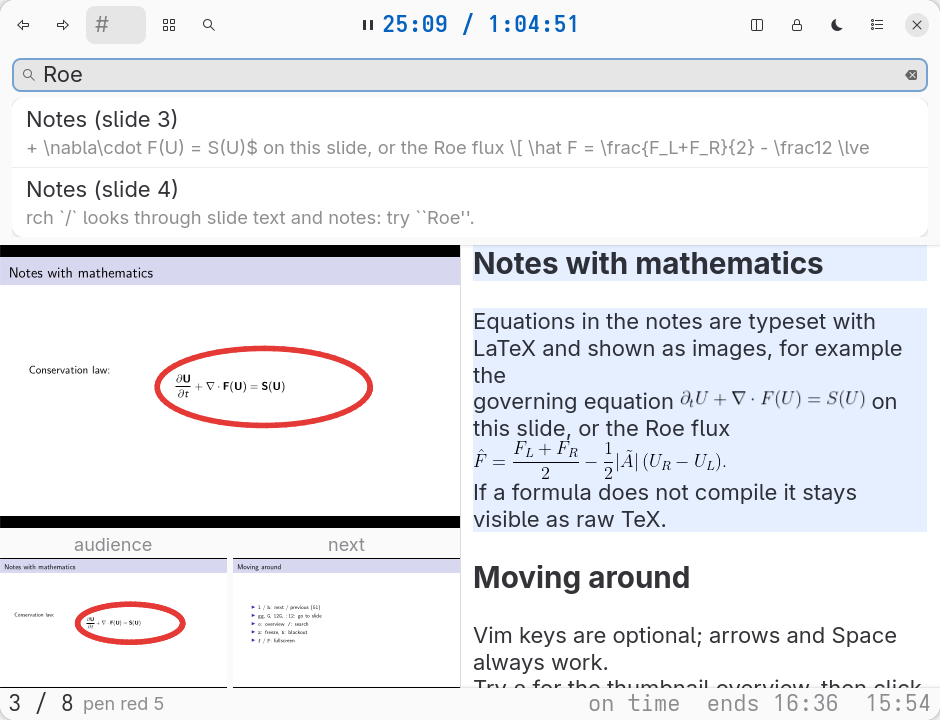
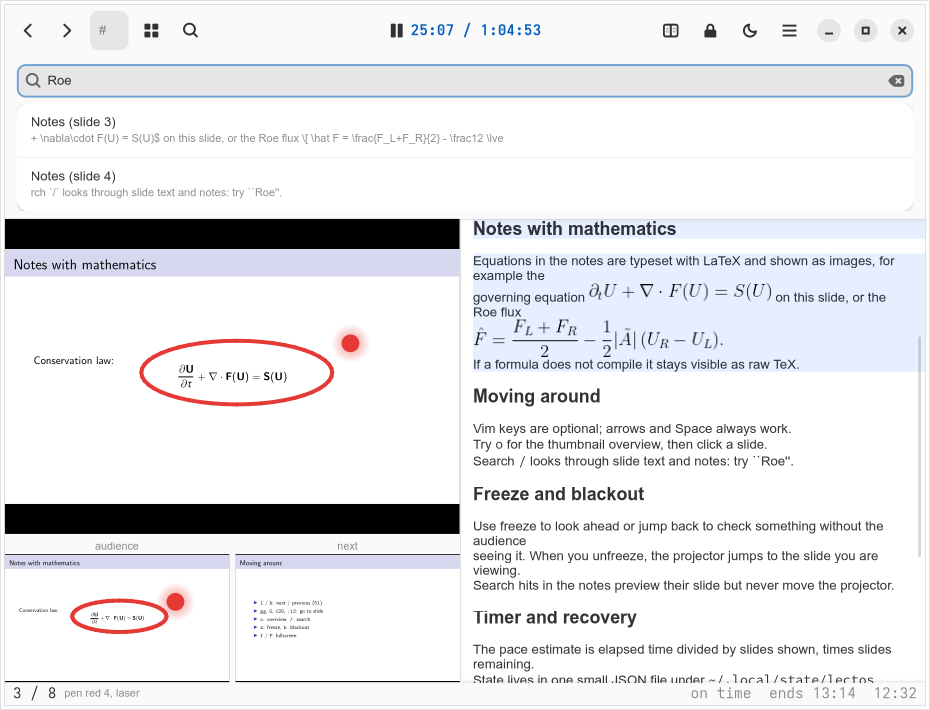
Add retro branding and refresh screenshots
Introduce a CRT and projector logo, a distinct projector icon, and a television test card for the sample standby screen. Refresh the documentation with captures from the current GTK windows.

diff --git a/tests/test_config.py b/tests/test_config.py
@@ -58,7 +58,8 @@ def test_invalid_options_name_the_problem(tmp_path: Path, text: str, message: st
 def test_sample_options_are_valid() -> None:
     opts = config.load(ROOT / "options.toml")
     assert opts.blackout.image == ROOT / "standby.svg"
-    assert opts.blackout.text.startswith("Please stand by")
+    assert opts.blackout.text == ""
+    assert opts.blackout.custom is True
 
 
 def test_ui_section_selects_console_and_projector(tmp_path: Path) -> None:

diff --git a/docs/usage.md b/docs/usage.md
@@ -8,9 +8,13 @@ The full reference. For installation and the first run see the [README](../READM
 
 ![The wide layout on a big screen: slide with ink and laser, audience and next previews, notes with typeset math, and the filmstrip](screenshots/wide.png)
 
-| Compact layout with the search panel open | What the audience sees |
+| Compact layout with search (palette hidden) | What the audience sees |
 |---|---|
 | ![The compact layout for a notebook, with search results above the slides](screenshots/compact.png) | ![The projector window: the slide with the red ink circle](screenshots/projector.png) |
+
+| Start window | Example standby screen |
+|---|---|
+| ![The start window with the CRT and projector logo](screenshots/start.png) | ![The projector showing the please stand by test card](screenshots/standby.png) |
 
 | console \ projector | `gtk` (our window) | `zathura` | `none` |
 |---|---|---|---|
@@ -21,6 +25,8 @@ The full reference. For installation and the first run see the [README](../READM
 - **zathura projector**: a plain Zathura window driven over D-Bus (`gdbus`); follows the deck, freeze works, fullscreen via `fullscreen`. It cannot show blackout, chalkboard, ink or laser, so those commands answer "not supported by this projector".
 - **gtk console**: all features below, including drawing and the laser on the preview. Needs GTK as above.
 - **tui console** (`lectos-tui`, or `--console tui`): standard-library Python in the terminal, no GTK unless combined with the gtk projector. Slide previews use `pdftoppm` and `chafa` (Unicode block characters; skipped in terminals narrower than 90 columns or when the tools are missing). Notes are shown as styled text; math is approximated with Unicode (`∂ₜ U + ∇·F(U) = S(U)`), not typeset. Overview and search results are lists. It has no laser, no `show-slide`, no mouse; with the gtk projector you can still draw on the projector window with a pen (or a mouse after `draw on`). Keys are always vim-style plus arrows; `:` opens the command line with Tab completion; `:q` quits (Ctrl-C also saves and quits). `?` or `:help` opens a list of every command usable with this projector (usage, description, key; commands that need the GTK console or a projector with more features are marked); Enter on an entry starts typing it, and `:help NAME` describes one command. With the gtk projector, GTK's own messages are written to `$XDG_STATE_HOME/lectos/<id>.log` so they cannot garble the screen.
+
+The GTK presenter and projector windows request different icons. Some desktop environments show a shared application icon instead of individual window icons.
 
 The GTK console opens a console window; with the gtk projector it also opens the projector window. It follows the GNOME design guidelines through libadwaita (1.4 or newer): a toolbar view with header bar, banners, toasts and boxed lists, and it follows the system light/dark setting. State the audience cares about is always visible: **banners** at the top say when the projector is frozen (with the slide it is stuck on), blacked out, or showing the chalkboard, each with a button to undo it; the matching header toggles light up (blackout in red); the footer shows the current pen, eraser, laser and board. Messages appear as toasts. The footer's right side shows how you stand against the plan (`on time`, `ahead 2:10`, `behind 3:40`: every slide gets an equal share of the lecture length and a slide's own share counts as on time), the estimated finish time at your current pace (`ends 15:48`), and the clock. `help` (key `?`) opens a page listing every command with usage and key; pick a row to start typing it.
 
@@ -76,7 +82,7 @@ Options live in `$XDG_CONFIG_HOME/lectos/options.toml` (or `--config FILE`); a m
 ```toml
 [blackout]
 image = "standby.svg"      # relative to this file, absolute, or ~/...; any format GTK can load
-text = "Please stand by…"
+text = ""                  # optional caption; the sample image already has a message
 background = "#101820"     # #rrggbb
 text_color = "#f2f2f2"
 
@@ -89,7 +95,7 @@ console = "gtk"            # or "tui"
 projector = "gtk"          # or "zathura"
 ```
 
-See `examples/options.toml` and `examples/standby.svg`. Status: tested with unit tests and by driving both windows on GNOME/Wayland with a 6-page and a 411-page PDF. Not tested: real pen pressure and the eraser end, fullscreen on a second monitor, a real lecture. With one monitor the projector stays windowed.
+See `examples/options.toml` and the retro test card in `examples/standby.svg`. Without blackout options the screen remains plain black. Status: tested with unit tests and by driving both windows on GNOME/Wayland with a 6-page and a 411-page PDF. Not tested: real pen pressure and the eraser end, fullscreen on a second monitor, a real lecture. With one monitor the projector stays windowed.
 
 ## Opening slides
 

diff --git a/docs/DONE.md b/docs/DONE.md
@@ -2,6 +2,12 @@
 
 Completed work only. Record meaningful outcomes and validation evidence, newest first.
 
+## 2026-11-10: retro logo, window icons and standby
+
+- Created a CRT-to-projector logo and a separate projector icon. Replaced the sample standby image with a television test card and documented that per-window icons depend on the desktop environment.
+- Validation: rendered and inspected the SVGs; Ruff, formatting and Ty passed, as did all 538 tests with 100% coverage.
+- Captured and inspected the current GTK presenter and projector windows on an isolated display with the sample deck; added the start window and sample standby screen.
+
 ## 2026-11-10: filmstrip pointer-crossing crash
 
 - Avoid rebuilding filmstrip thumbnails for laser and other updates that leave their contents and geometry unchanged. Defer deck-triggered rebuilds until after input callbacks, including a thumbnail's own press handler.

diff --git a/README.md b/README.md
@@ -1,5 +1,7 @@
 # LECTOS(1)
 
+![lectos logo: a CRT connected to a projector](lectos/gtk/icons/hicolor/scalable/apps/lectos.svg)
+
 ## NAME
 
 `lectos` — Linux presenter console and projector for PDF slides and lecture notes
